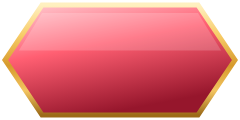
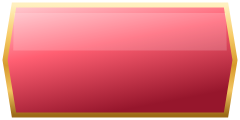
Re-author the hexagon caps at render size, not source size
The buttons, pills and section banners were shipping as long arrowheads
instead of the concept art's modest notch. The cap on each was authored at
42px (34 for the pill, 48 for the banner) with a SliceScale meant to bring
it down to ~15px, and that scale was not taking in engine: every control
drew the full source cap, which on a 42px-tall button is more than half its
width.

A slice border draws at its source width, so the fix is to stop asking for
it to be scaled and author the caps at the width they render at. The source
stays tall, so the vertical squash into a short control is what sets the
angle -- a 14px cap over 120px of source height lands at 14 over ~21 in a
42px button, the art's own proportion. SLICE_SCALE now holds only
PanelFrame, whose 0.6 is a real 9-slice and does work.

That bakes the new geometry into the PNGs, so the five ids uploaded against
the old art are stale and are zeroed here: ButtonPrimary, ButtonDefault,
ButtonDanger, PillFrame and SectionBanner all fall back to the code-drawn
capsule (right colours, rounded silhouette) until button_primary.png,
button_default.png, button_danger.png, pill_frame.png and
section_banner.png are re-uploaded and re-resolved. 35/40 ids live.

Claude-Session: https://claude.ai/code/session_017ANBnwECAvsWkTuXkQ617S

Changed region(s): [[0.8167, 0.0, 0.9917, 1.0], [0.0, 0.0, 0.175, 1.0]]

diff --git a/design/export_ui_assets.py b/design/export_ui_assets.py
@@ -116,14 +116,21 @@ def panel_frame():
 # Button/Pill keep their own Gloss/Shade code overlays on top -- same deal
 # as Card.
 #
-# Drawn a little over 2x the height they render at so the diagonals stay
-# crisp; each one's SliceScale in Factory.luau brings the caps back down to
-# the art's own proportion (a cap about 0.7 of the shape's half-height).
+# The cap is authored at the width it actually RENDERS at, and the source is
+# left tall so the vertical squash is what sets the angle: a 14px cap over a
+# 120px source height lands at 14 over ~21 once the image is drawn into a
+# 42px-tall button, which is the art's own proportion (a cap about 0.7 of the
+# shape's half-height).
+#
+# It has to be authored that way because a slice border draws at its source
+# width and SliceScale does not bring it down here -- see Factory.luau's
+# SLICE_SCALE note. A 42px cap with a 0.35 scale was rendering as a 42px cap:
+# more than half of a short button, drawn out into a long arrow.
 # --------------------------------------------------------------------------
 BTN_W, BTN_H = 240, 120
-BTN_CAP = 42
+BTN_CAP = 14
 PILL_W, PILL_H = 200, 100
-PILL_CAP = 34
+PILL_CAP = 10
 
 
 def _hexagon(w: int, h: int, cap: int, inset: float) -> str:
@@ -185,7 +192,7 @@ def pill_frame():
 # full height, leaving no top/bottom band) rather than a 9-slice.
 # --------------------------------------------------------------------------
 BANNER_W, BANNER_H = 240, 120
-BANNER_SLICE = 48  # angled end cap; drawn at BANNER_SLICE * SliceScale px
+BANNER_SLICE = 12  # angled end cap, authored at the width it renders at
 
 
 def section_banner():
